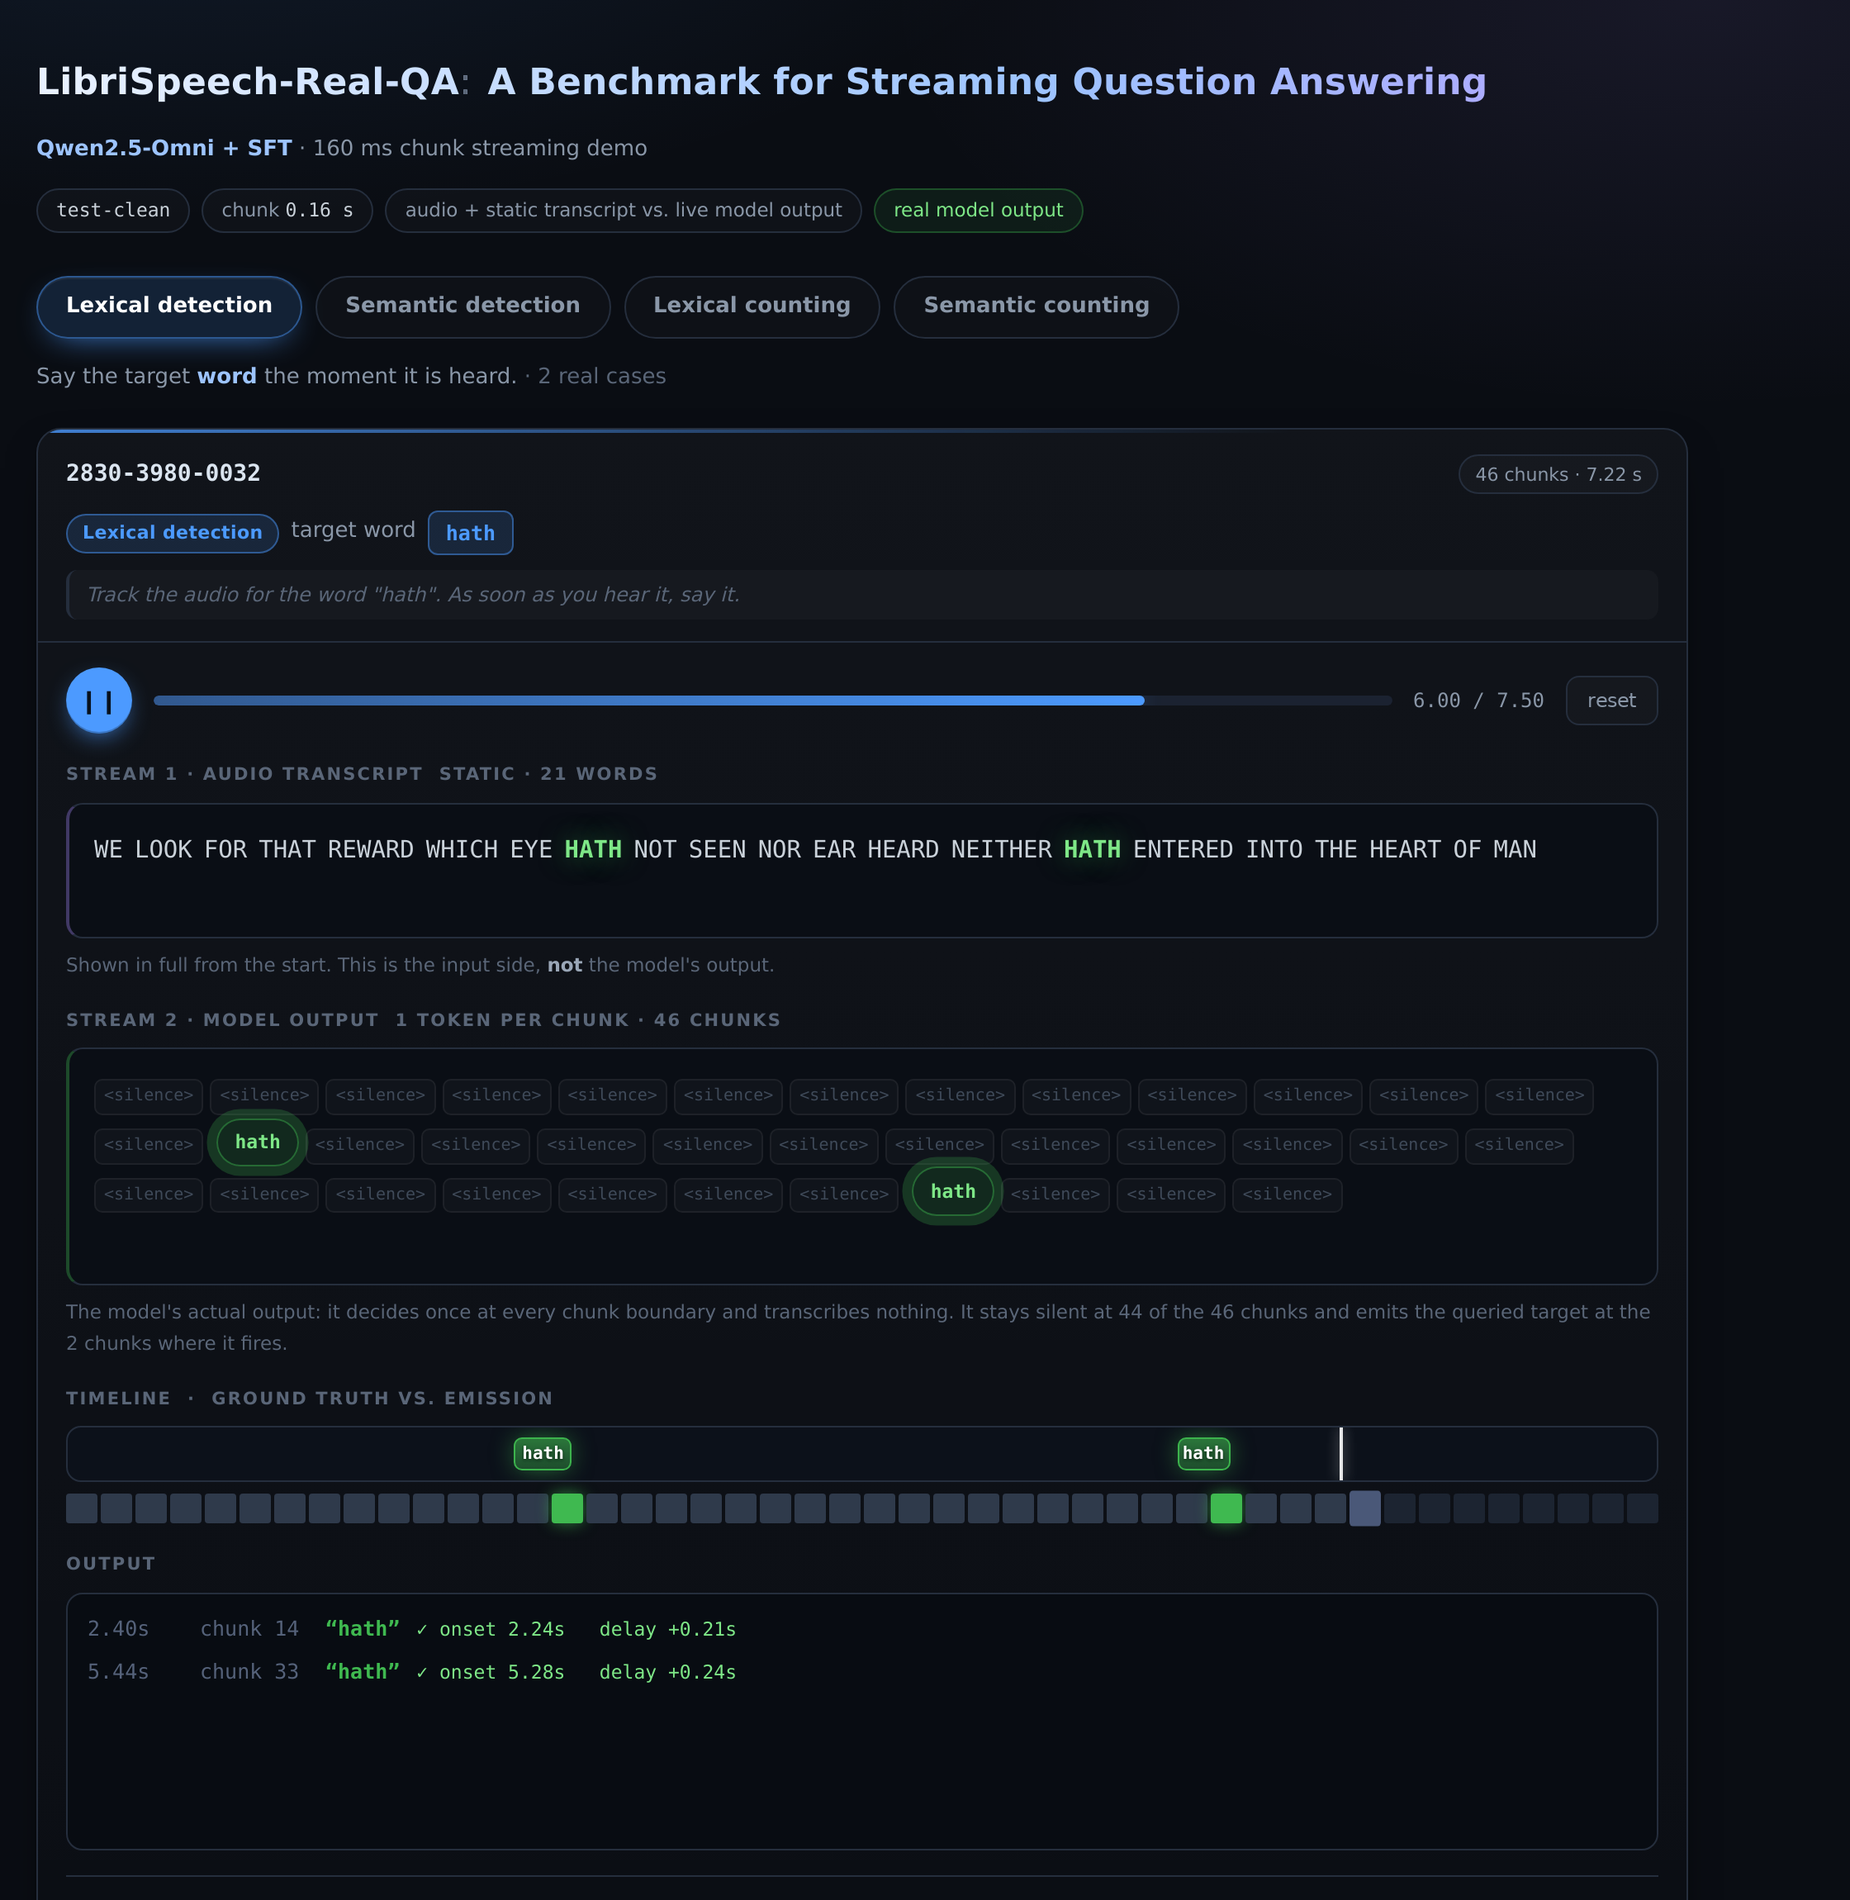
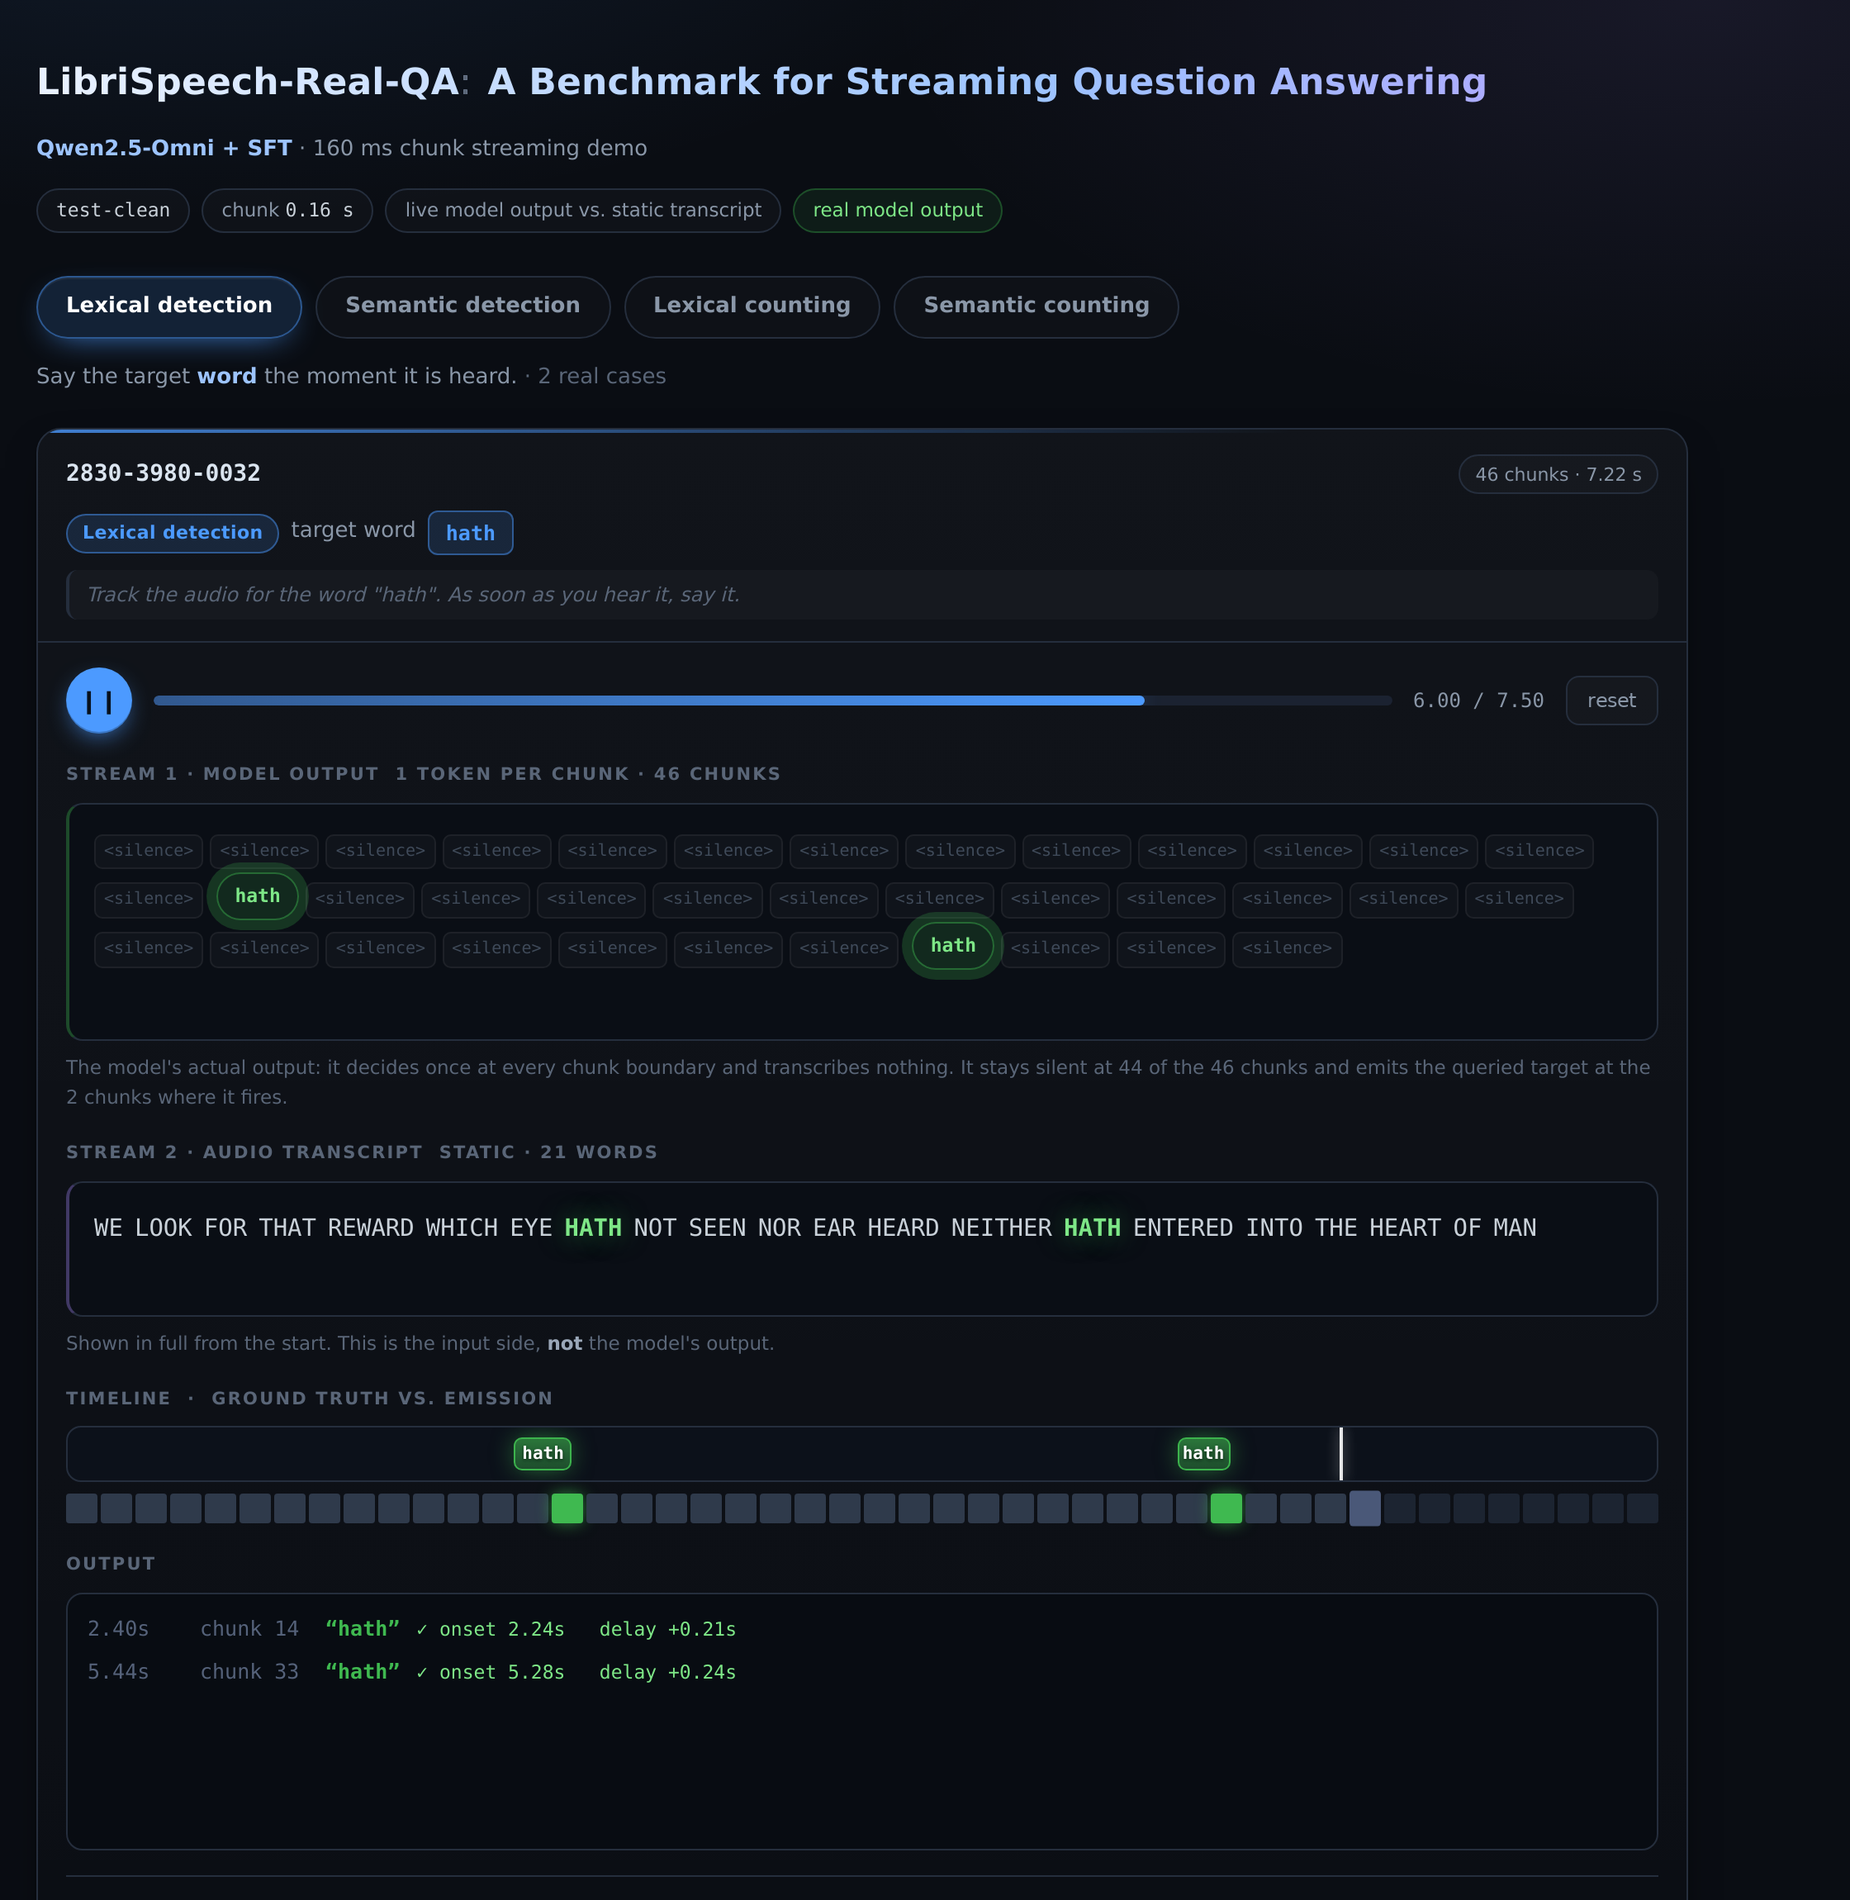
Put the model output above the transcript
The model's per-chunk decisions are the result the demo is about, so show them
first and keep the transcript below as reference.

- Swap the two section blocks in buildCard and renumber: Stream 1 is now the
  model output, Stream 2 the static audio transcript. Colours stay attached to
  the sections (.tx-out green, .tx-audio purple), so the border/word colours are
  unchanged.
- Update the header pill, the "how to read" list and the README to the new
  numbering and reading order.
- test_demo.js now asserts the output sits above the transcript in the DOM, so
  the order cannot silently regress.

Regenerates preview.png.

diff --git a/index.html b/index.html
@@ -298,7 +298,7 @@
     <div class="sub">
       <span class="pill"><i>test-clean</i></span>
       <span class="pill">chunk <i>0.16&nbsp;s</i></span>
-      <span class="pill">audio + static transcript vs.&nbsp;live model output</span>
+      <span class="pill">live model output vs.&nbsp;static transcript</span>
       <span class="pill ok">real model output</span>
     </div>
   </header>
@@ -315,18 +315,18 @@
     <details>
       <summary>How to read this display</summary>
       <ul>
-        <li><b>Stream 1 &mdash; audio transcript (static).</b> The full sentence, placed
-            under the player and shown in full from the start. Timings come from
-            wav2vec2 forced alignment, but nothing about it is streamed.
-            This is the input side; it is <em>not</em> the model's output.
-            <span class="tw">Purple</span> marks the queried target, turning
-            <span class="hw">green</span> the moment the model responds.</li>
-        <li><b>Stream 2 &mdash; model output.</b> One token per chunk, because the model
+        <li><b>Stream 1 &mdash; model output.</b> One token per chunk, because the model
             decides exactly once at every chunk boundary: a
             <code>&lt;silence&gt;</code> token whenever it emits nothing, and a
             <span class="ew">green chip</span> at the chunks where it commits the
             queried target. The output is dominated by silence &mdash; the model is not
             transcribing.</li>
+        <li><b>Stream 2 &mdash; audio transcript (static).</b> The full sentence,
+            shown in full from the start. Timings come from wav2vec2 forced alignment,
+            but nothing about it is streamed. This is the input side; it is <em>not</em>
+            the model's output.
+            <span class="tw">Purple</span> marks the queried target, turning
+            <span class="hw">green</span> the moment the model responds.</li>
         <li><b>Timing.</b> Chunk <i>k</i> covers <code>[k&middot;0.16,(k+1)&middot;0.16)</code>&nbsp;s and is fully
             consumed at <code>(k+1)&middot;0.16</code>&nbsp;s &mdash; the earliest instant the model can answer.
             An emission therefore appears at that instant, and the metric scores its
@@ -402,32 +402,10 @@ function buildCard(c) {
   ctl.append(play, bar, time, reset);
   body.appendChild(ctl);
 
-  // ---- stream 1: what is heard, word by word (for reference) ----
-  const secA = el("div", "sec");
-  secA.appendChild(el("div", "lbl",
-    `Stream 1 &middot; audio transcript &nbsp;<span class="nch">static ` +
-    `&middot; ${c.words.length} words</span>`));
-  const txA = el("div", "tx tx-audio");
-  const wordEls = c.words.map(w => {
-    const isTgt = w.ev >= 0;
-    const s = el("span", "w" + (isTgt ? " tgt" : ""), w.w);
-    s.title = `${w.w}  [${fmt(w.start)}, ${fmt(w.end)}] s` +
-      (isTgt ? `\ntarget event ${w.ev + 1} of ${c.gt.length}` : "");
-    txA.appendChild(s);
-    return s;
-  });
-  const eventWord = {};                       // gt index -> its word span
-  c.words.forEach((w, i) => { if (w.ev >= 0) eventWord[w.ev] = wordEls[i]; });
-  secA.appendChild(txA);
-  const hintA = el("div", "hint",
-    "Shown in full from the start. This is the input side, <b>not</b> the model's output.");
-  secA.appendChild(hintA);
-  body.appendChild(secA);
-
-  // ---- stream 2: the model's real output = one wait token per chunk ----
+  // ---- stream 1: the model's real output = one wait token per chunk ----
   const secB = el("div", "sec");
   secB.appendChild(el("div", "lbl",
-    `Stream 2 &middot; model output &nbsp;<span class="nch">1 token per chunk ` +
+    `Stream 1 &middot; model output &nbsp;<span class="nch">1 token per chunk ` +
     `&middot; ${c.nChunks} chunks</span>`));
   const txB = el("div", "tx tx-out");
   const outEls = [];
@@ -454,6 +432,28 @@ function buildCard(c) {
     c.gt.length + " chunk" + (c.gt.length > 1 ? "s" : "") + " where it fires.");
   secB.appendChild(hintB);
   body.appendChild(secB);
+
+  // ---- stream 2: what is heard, word by word (static reference) ----
+  const secA = el("div", "sec");
+  secA.appendChild(el("div", "lbl",
+    `Stream 2 &middot; audio transcript &nbsp;<span class="nch">static ` +
+    `&middot; ${c.words.length} words</span>`));
+  const txA = el("div", "tx tx-audio");
+  const wordEls = c.words.map(w => {
+    const isTgt = w.ev >= 0;
+    const s = el("span", "w" + (isTgt ? " tgt" : ""), w.w);
+    s.title = `${w.w}  [${fmt(w.start)}, ${fmt(w.end)}] s` +
+      (isTgt ? `\ntarget event ${w.ev + 1} of ${c.gt.length}` : "");
+    txA.appendChild(s);
+    return s;
+  });
+  const eventWord = {};                       // gt index -> its word span
+  c.words.forEach((w, i) => { if (w.ev >= 0) eventWord[w.ev] = wordEls[i]; });
+  secA.appendChild(txA);
+  const hintA = el("div", "hint",
+    "Shown in full from the start. This is the input side, <b>not</b> the model's output.");
+  secA.appendChild(hintA);
+  body.appendChild(secA);
 
   // ---- ground-truth timeline ----
   const secTl = el("div", "sec");

diff --git a/test_demo.js b/test_demo.js
@@ -125,6 +125,10 @@ for (const task of T.tasks) {
     const chips = () => outEls.filter(e => has(e, 'em'));
     const sils = () => outEls.filter(e => has(e, 'sil'));
 
+    // the model's output must be presented above the static transcript
+    ok(all.indexOf(txB) < all.indexOf(txA),
+      `${c.id}: model output is not placed above the audio transcript`);
+
     // stream 1 voices the whole sentence; only the queried targets are marked
     ok(wordEls.length === c.words.length,
       `${c.id}: words ${wordEls.length} != ${c.words.length}`);

diff --git a/build_streaming_demo.py b/build_streaming_demo.py
@@ -563,7 +563,7 @@ TEMPLATE = r"""<!DOCTYPE html>
     <div class="sub">
       <span class="pill"><i>test-clean</i></span>
       <span class="pill">chunk <i>0.16&nbsp;s</i></span>
-      <span class="pill">audio + static transcript vs.&nbsp;live model output</span>
+      <span class="pill">live model output vs.&nbsp;static transcript</span>
       <span class="pill ok">real model output</span>
     </div>
   </header>
@@ -580,18 +580,18 @@ TEMPLATE = r"""<!DOCTYPE html>
     <details>
       <summary>How to read this display</summary>
       <ul>
-        <li><b>Stream 1 &mdash; audio transcript (static).</b> The full sentence, placed
-            under the player and shown in full from the start. Timings come from
-            wav2vec2 forced alignment, but nothing about it is streamed.
-            This is the input side; it is <em>not</em> the model's output.
-            <span class="tw">Purple</span> marks the queried target, turning
-            <span class="hw">green</span> the moment the model responds.</li>
-        <li><b>Stream 2 &mdash; model output.</b> One token per chunk, because the model
+        <li><b>Stream 1 &mdash; model output.</b> One token per chunk, because the model
             decides exactly once at every chunk boundary: a
             <code>&lt;silence&gt;</code> token whenever it emits nothing, and a
             <span class="ew">green chip</span> at the chunks where it commits the
             queried target. The output is dominated by silence &mdash; the model is not
             transcribing.</li>
+        <li><b>Stream 2 &mdash; audio transcript (static).</b> The full sentence,
+            shown in full from the start. Timings come from wav2vec2 forced alignment,
+            but nothing about it is streamed. This is the input side; it is <em>not</em>
+            the model's output.
+            <span class="tw">Purple</span> marks the queried target, turning
+            <span class="hw">green</span> the moment the model responds.</li>
         <li><b>Timing.</b> Chunk <i>k</i> covers <code>[k&middot;0.16,(k+1)&middot;0.16)</code>&nbsp;s and is fully
             consumed at <code>(k+1)&middot;0.16</code>&nbsp;s &mdash; the earliest instant the model can answer.
             An emission therefore appears at that instant, and the metric scores its
@@ -667,32 +667,10 @@ function buildCard(c) {
   ctl.append(play, bar, time, reset);
   body.appendChild(ctl);
 
-  // ---- stream 1: what is heard, word by word (for reference) ----
-  const secA = el("div", "sec");
-  secA.appendChild(el("div", "lbl",
-    `Stream 1 &middot; audio transcript &nbsp;<span class="nch">static ` +
-    `&middot; ${c.words.length} words</span>`));
-  const txA = el("div", "tx tx-audio");
-  const wordEls = c.words.map(w => {
-    const isTgt = w.ev >= 0;
-    const s = el("span", "w" + (isTgt ? " tgt" : ""), w.w);
-    s.title = `${w.w}  [${fmt(w.start)}, ${fmt(w.end)}] s` +
-      (isTgt ? `\ntarget event ${w.ev + 1} of ${c.gt.length}` : "");
-    txA.appendChild(s);
-    return s;
-  });
-  const eventWord = {};                       // gt index -> its word span
-  c.words.forEach((w, i) => { if (w.ev >= 0) eventWord[w.ev] = wordEls[i]; });
-  secA.appendChild(txA);
-  const hintA = el("div", "hint",
-    "Shown in full from the start. This is the input side, <b>not</b> the model's output.");
-  secA.appendChild(hintA);
-  body.appendChild(secA);
-
-  // ---- stream 2: the model's real output = one wait token per chunk ----
+  // ---- stream 1: the model's real output = one wait token per chunk ----
   const secB = el("div", "sec");
   secB.appendChild(el("div", "lbl",
-    `Stream 2 &middot; model output &nbsp;<span class="nch">1 token per chunk ` +
+    `Stream 1 &middot; model output &nbsp;<span class="nch">1 token per chunk ` +
     `&middot; ${c.nChunks} chunks</span>`));
   const txB = el("div", "tx tx-out");
   const outEls = [];
@@ -719,6 +697,28 @@ function buildCard(c) {
     c.gt.length + " chunk" + (c.gt.length > 1 ? "s" : "") + " where it fires.");
   secB.appendChild(hintB);
   body.appendChild(secB);
+
+  // ---- stream 2: what is heard, word by word (static reference) ----
+  const secA = el("div", "sec");
+  secA.appendChild(el("div", "lbl",
+    `Stream 2 &middot; audio transcript &nbsp;<span class="nch">static ` +
+    `&middot; ${c.words.length} words</span>`));
+  const txA = el("div", "tx tx-audio");
+  const wordEls = c.words.map(w => {
+    const isTgt = w.ev >= 0;
+    const s = el("span", "w" + (isTgt ? " tgt" : ""), w.w);
+    s.title = `${w.w}  [${fmt(w.start)}, ${fmt(w.end)}] s` +
+      (isTgt ? `\ntarget event ${w.ev + 1} of ${c.gt.length}` : "");
+    txA.appendChild(s);
+    return s;
+  });
+  const eventWord = {};                       // gt index -> its word span
+  c.words.forEach((w, i) => { if (w.ev >= 0) eventWord[w.ev] = wordEls[i]; });
+  secA.appendChild(txA);
+  const hintA = el("div", "hint",
+    "Shown in full from the start. This is the input side, <b>not</b> the model's output.");
+  secA.appendChild(hintA);
+  body.appendChild(secA);
 
   // ---- ground-truth timeline ----
   const secTl = el("div", "sec");

diff --git a/README.md b/README.md
@@ -30,18 +30,10 @@ Nothing is hand-written, scripted, or simulated.
 
 ## How to read the display
 
-Two streams are shown: a **static** reference transcript, and the model's **live**
-per-chunk output.
+Two streams are shown: the model's **live** per-chunk output first, then a **static**
+reference transcript.
 
-**Stream 1 — audio transcript (static).** The full sentence, placed under the player
-and shown in full from the start. Word timings come from forced alignment, but nothing
-about the transcript is streamed: it is a fixed reference you can read ahead of the
-audio. This is the *input* side, not the model's output.
-
-- <span>**purple**</span> = the queried target word
-- <span>**green**</span> = the model has responded to that word
-
-**Stream 2 — model output.** One token per chunk, because the model decides exactly
+**Stream 1 — model output.** One token per chunk, because the model decides exactly
 once at every chunk boundary. It transcribes nothing.
 
 - **`<silence>`** = the model emits nothing at that chunk boundary
@@ -50,6 +42,14 @@ once at every chunk boundary. It transcribes nothing.
 The output is dominated by silence: across the eight cases, 2–3 chunks out of 27–47
 carry an emission and all the rest are `<silence>`. That sparsity is the point — a
 streaming model has to learn *when not to speak* as much as *when to speak*.
+
+**Stream 2 — audio transcript (static).** The full sentence, shown in full from the
+start. Word timings come from forced alignment, but nothing about the transcript is
+streamed: it is a fixed reference you can read ahead of the audio. This is the *input*
+side, not the model's output.
+
+- <span>**purple**</span> = the queried target word
+- <span>**green**</span> = the model has responded to that word
 
 Also shown:
 
